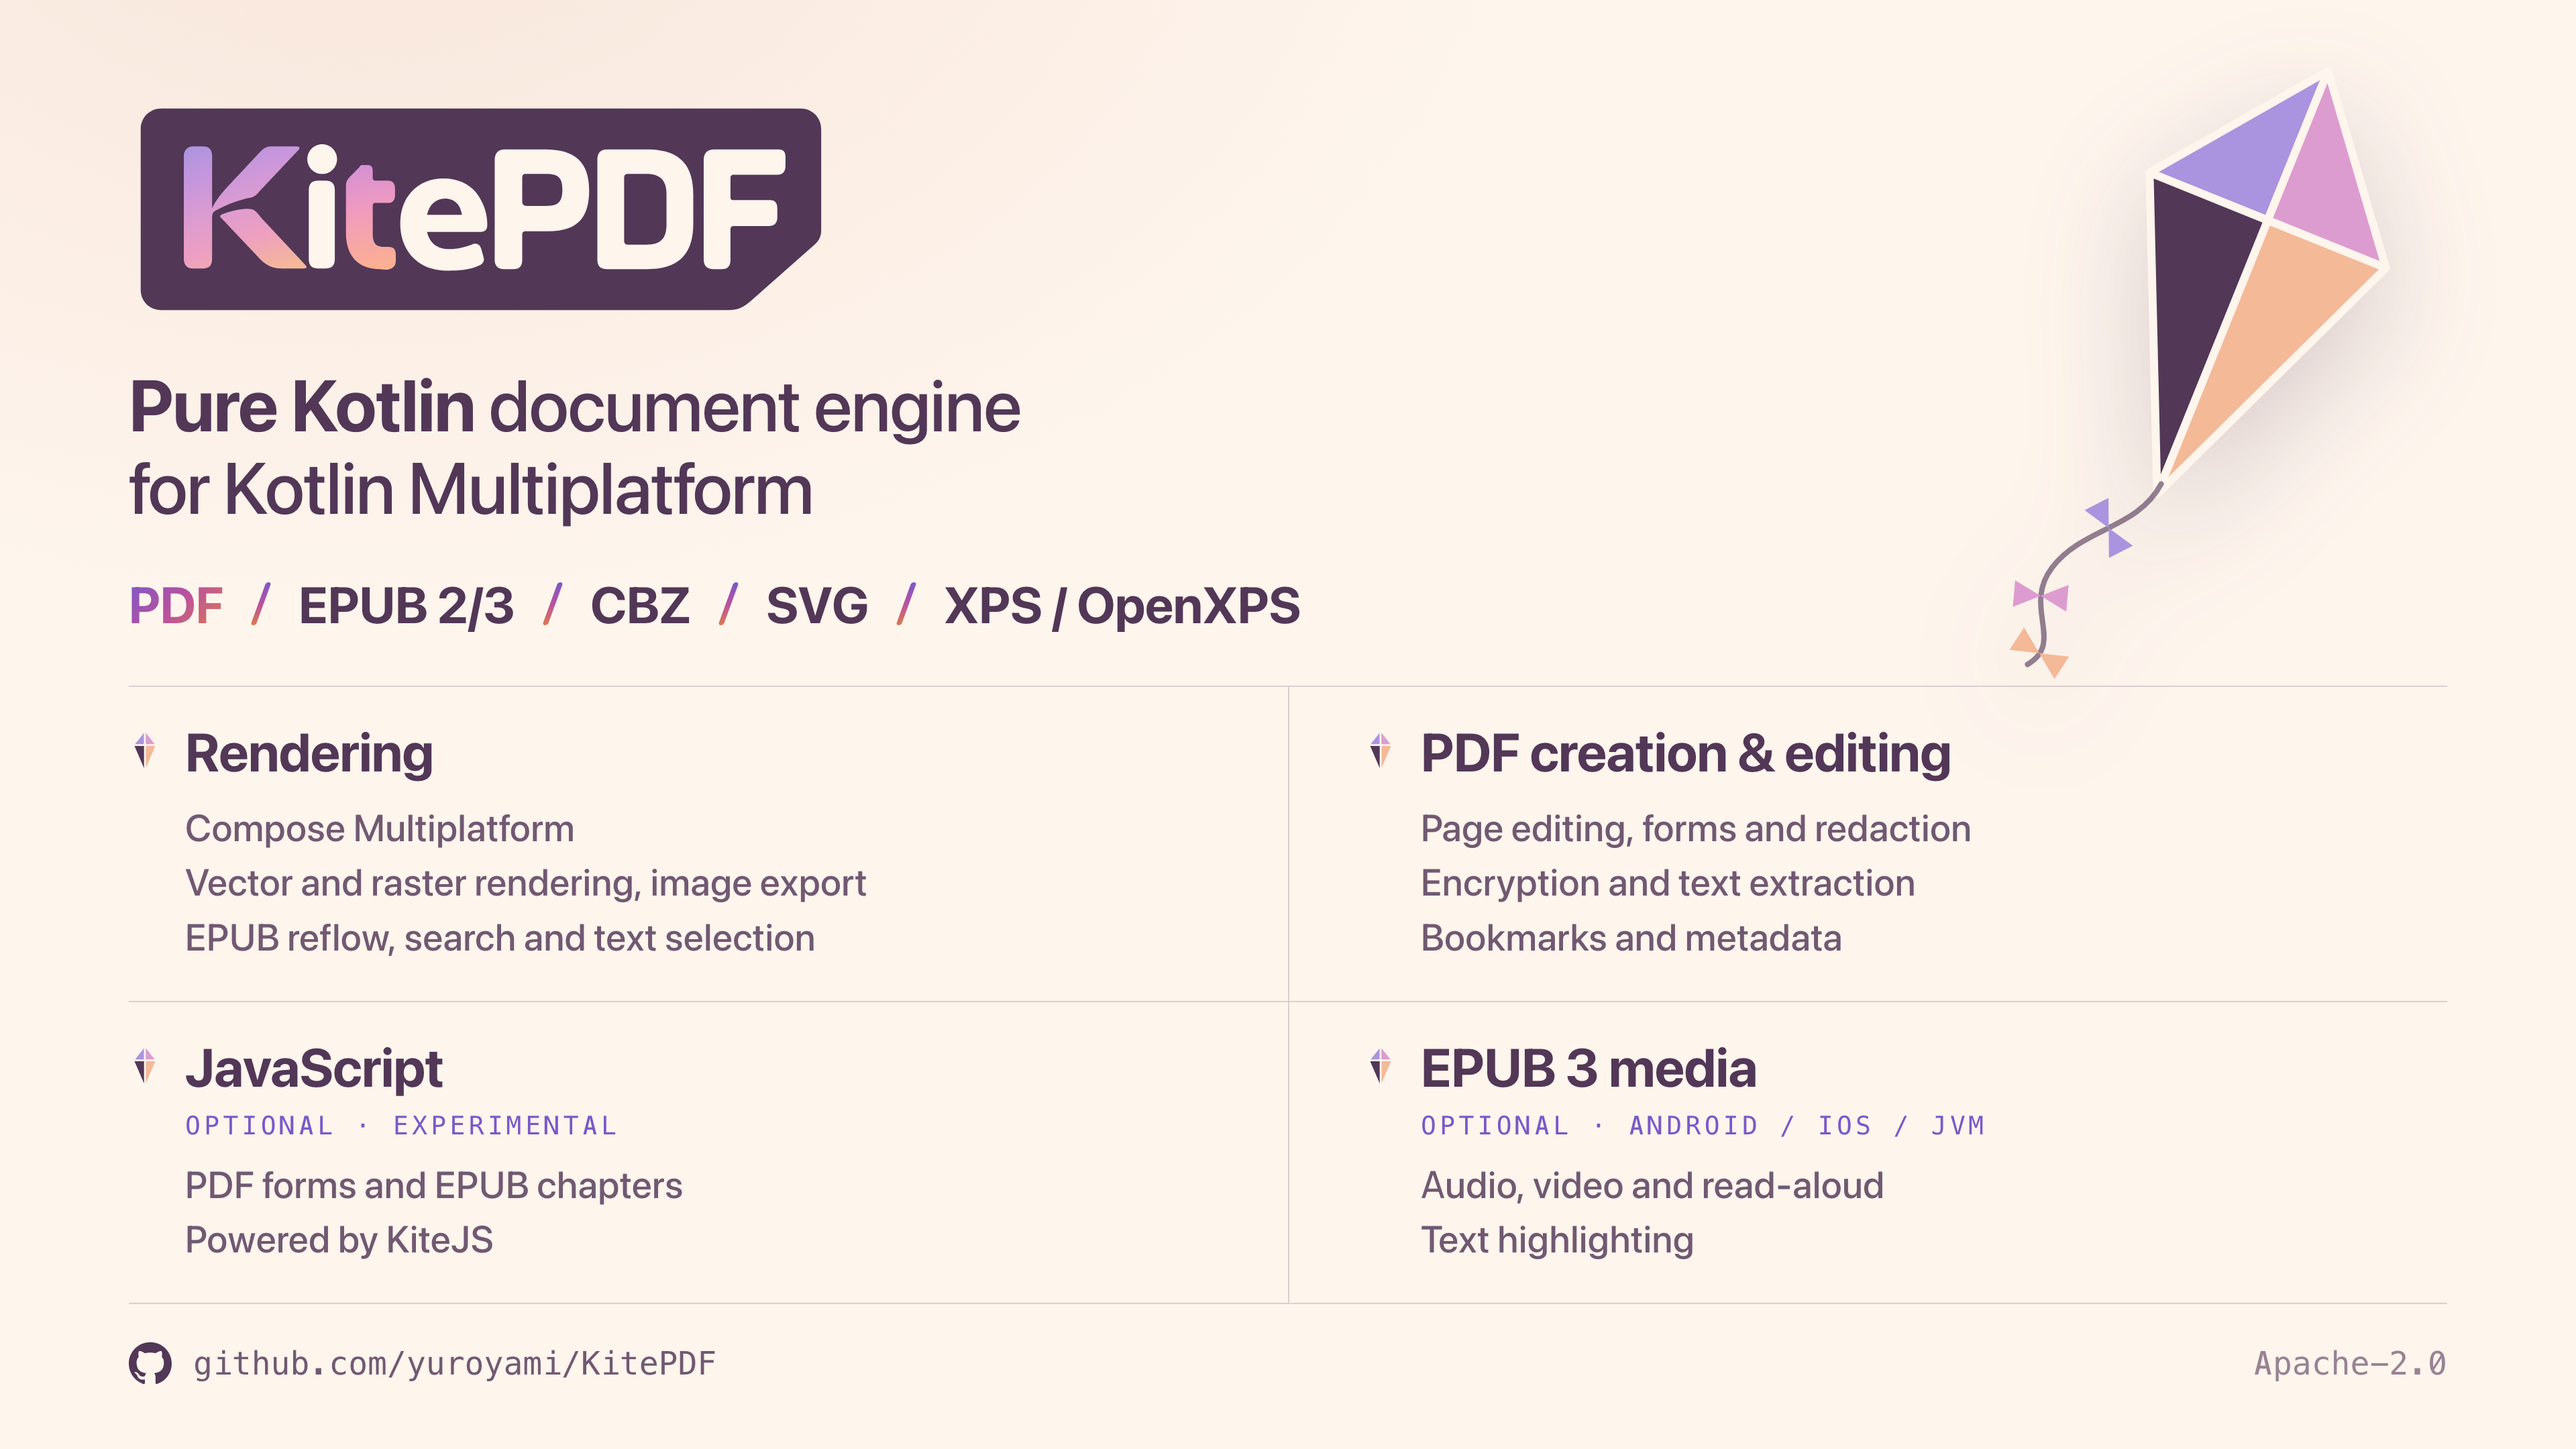
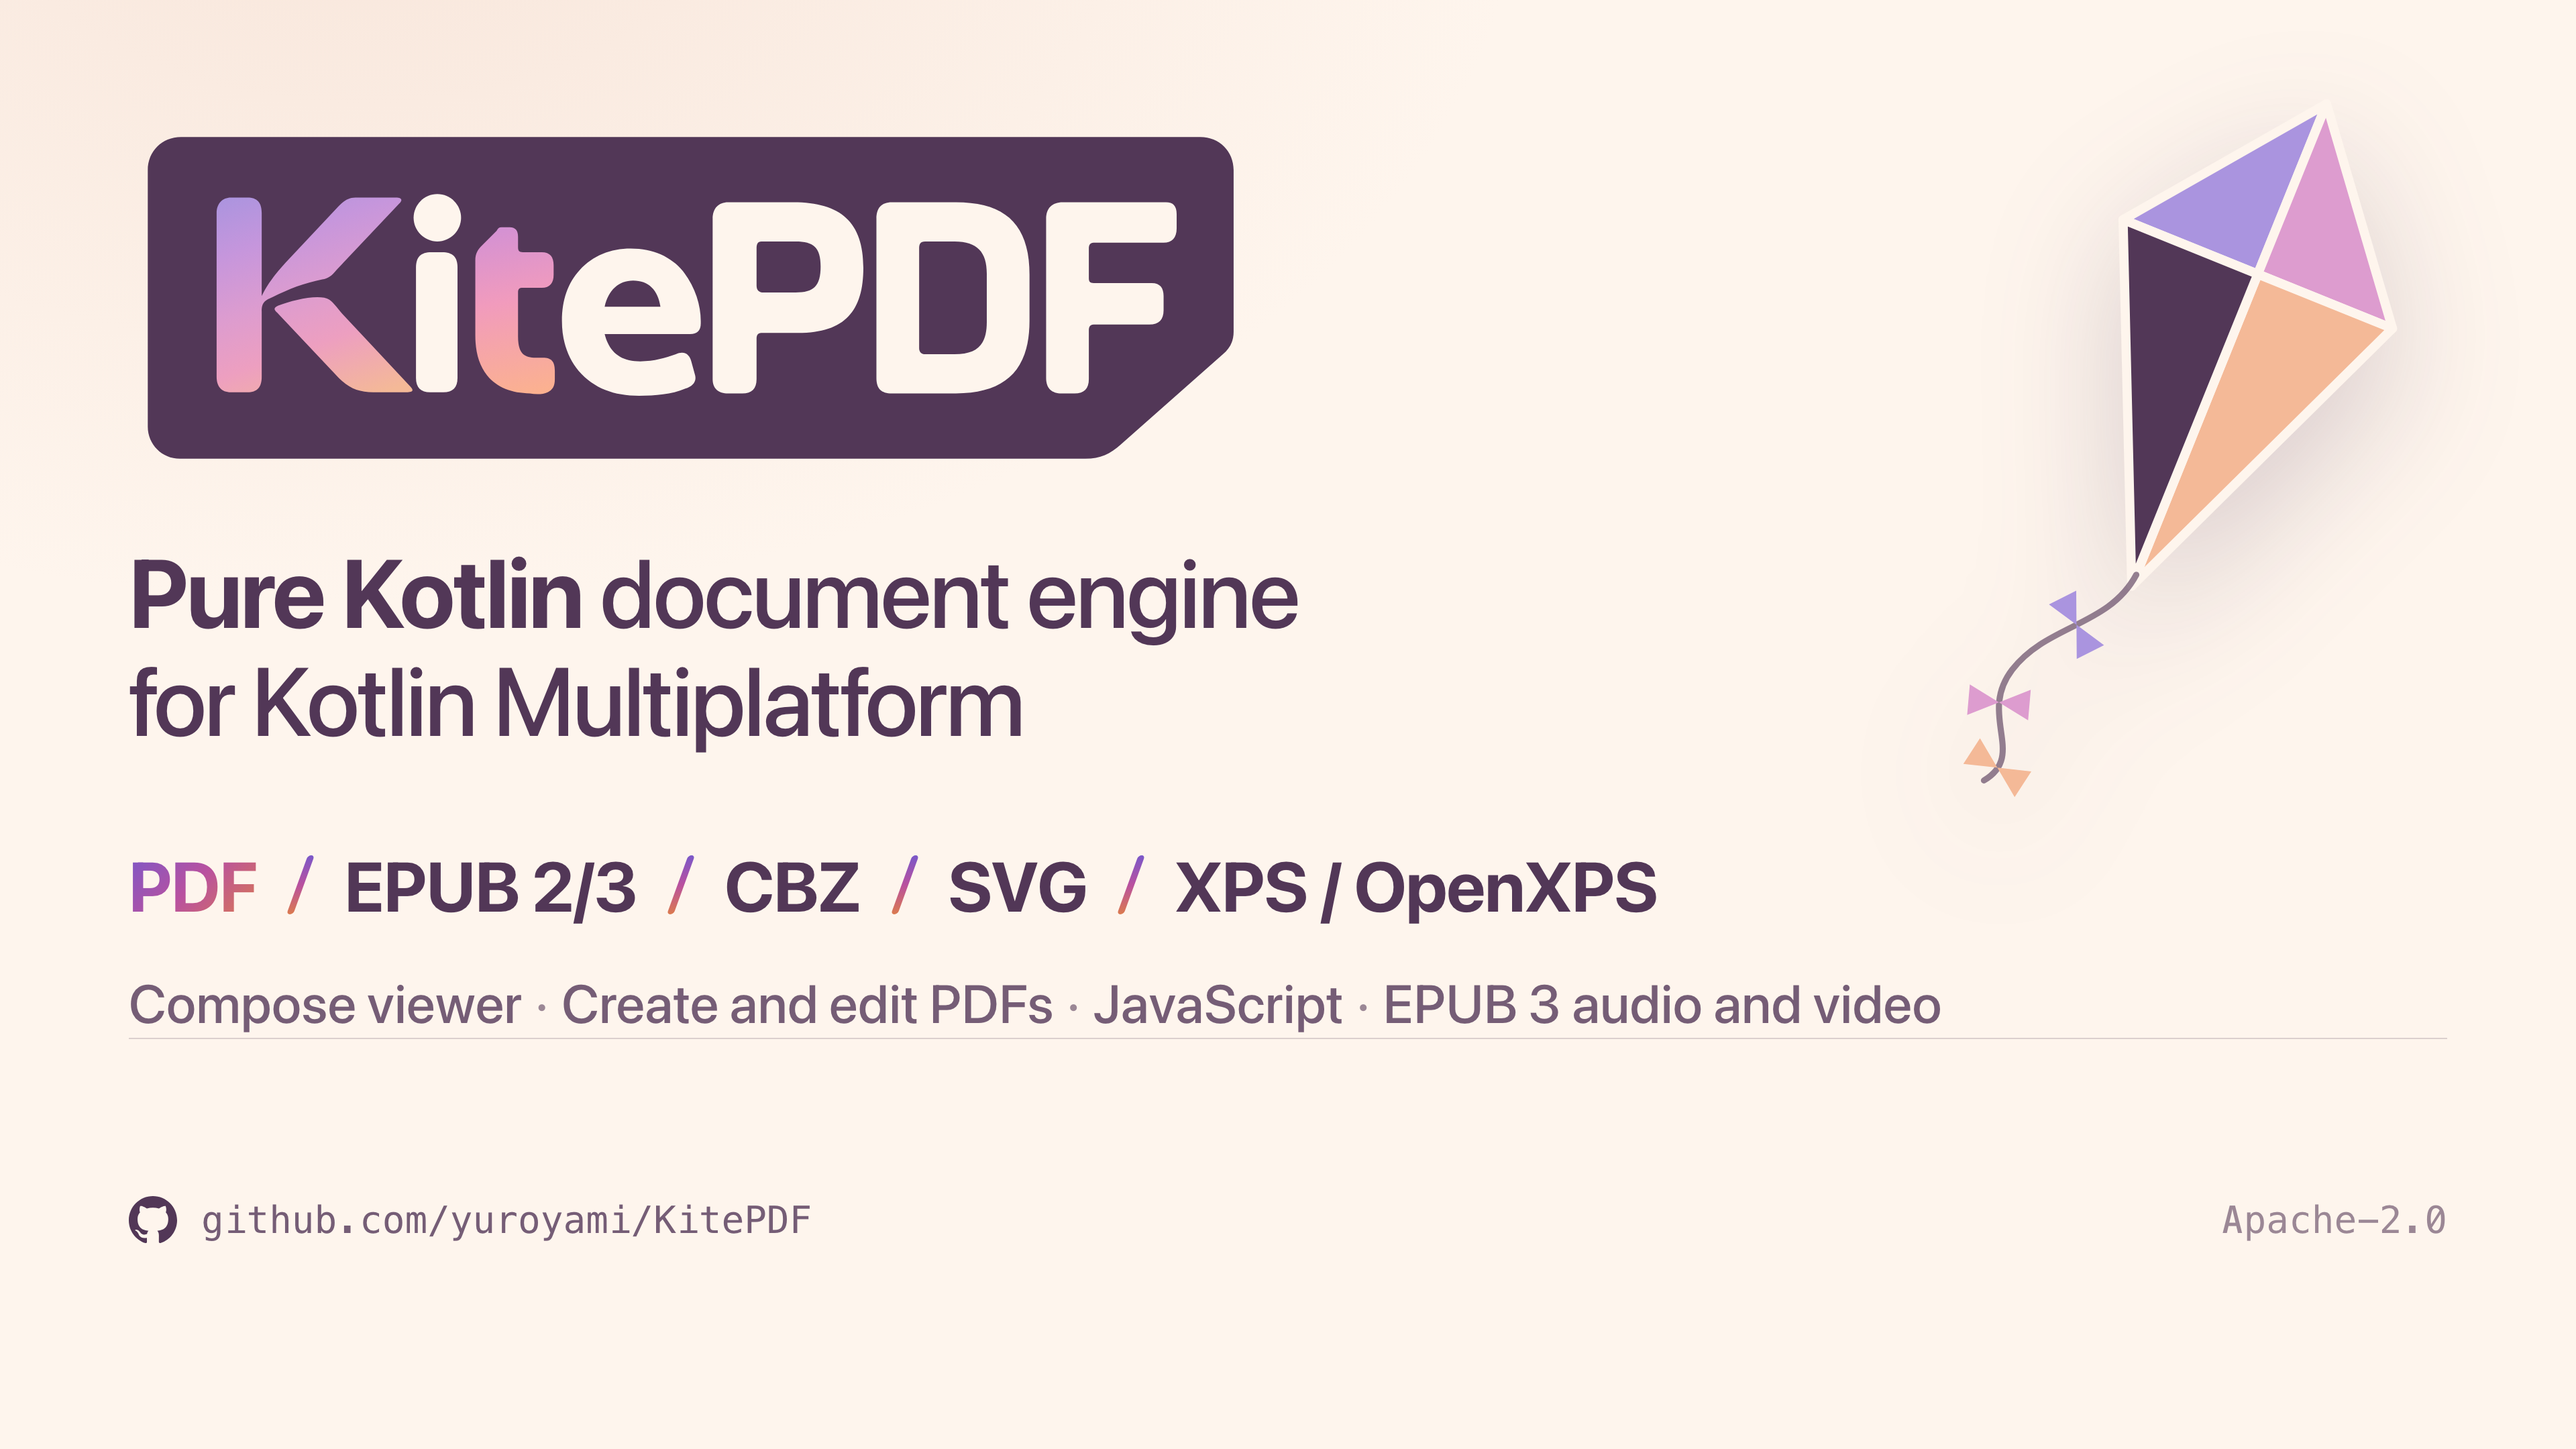
docs: cut the feature graphic down so it reads at readme width
The first version was a dense slide. The graphic now carries the plaque,
one tagline, the five formats, one line of features and the kite, with
nothing under 40px on the 1920px canvas, so it stays legible when the
readme shows it at a few hundred pixels wide.

diff --git a/art/feature-graphic/index.html b/art/feature-graphic/index.html
@@ -8,6 +8,7 @@
   Open this file in a browser, or run render.sh to get a PNG at 3840 x 2160.
   Add ?theme=light to the URL for the ivory variant. The default is the dark variant.
   The logo comes from ../kitepdf-logo.svg, so the lettering is always the real one.
+  Nothing on the page is smaller than 40px, so it still reads at README and phone width.
 -->
 <style>
   @font-face {
@@ -35,30 +36,28 @@
     --bg: #1A1420;
     --bg-lift: #2B1F33;
     --ink: var(--ivory);
-    --ink-2: rgba(254, 245, 237, 0.76);
-    --ink-3: rgba(254, 245, 237, 0.52);
+    --ink-2: rgba(254, 245, 237, 0.74);
+    --ink-3: rgba(254, 245, 237, 0.50);
     --rule: rgba(254, 245, 237, 0.16);
     --grad: linear-gradient(135deg, var(--lavender) 0%, var(--pink) 50%, var(--peach) 100%);
     --grad-v: linear-gradient(180deg, var(--lavender) 0%, var(--pink) 50%, var(--peach) 100%);
-    --tag: var(--lavender);
     --kite-4: var(--ivory);
     --kite-tail: rgba(254, 245, 237, 0.62);
-    --kite-shadow: drop-shadow(0 28px 44px rgba(0, 0, 0, 0.55));
+    --kite-shadow: drop-shadow(0 32px 50px rgba(0, 0, 0, 0.55));
   }
   :root[data-theme="light"] {
     --bg: #FEF5ED;
     --bg-lift: #F8E6DB;
     --ink: var(--plum);
-    --ink-2: rgba(82, 55, 87, 0.82);
-    --ink-3: rgba(82, 55, 87, 0.60);
+    --ink-2: rgba(82, 55, 87, 0.80);
+    --ink-3: rgba(82, 55, 87, 0.58);
     --rule: rgba(82, 55, 87, 0.20);
     /* Deeper versions of the same three hues, so text keeps its contrast on ivory. */
     --grad: linear-gradient(135deg, #7A58C9 0%, #B9519F 50%, #DB7A4E 100%);
     --grad-v: linear-gradient(180deg, #7A58C9 0%, #B9519F 50%, #DB7A4E 100%);
-    --tag: #7A58C9;
     --kite-4: var(--plum);
     --kite-tail: rgba(82, 55, 87, 0.62);
-    --kite-shadow: drop-shadow(0 28px 44px rgba(82, 55, 87, 0.22));
+    --kite-shadow: drop-shadow(0 32px 50px rgba(82, 55, 87, 0.22));
   }
 
   * { box-sizing: border-box; }
@@ -69,7 +68,6 @@
     background: var(--bg);
     color: var(--ink);
     font-family: "Manrope", system-ui, sans-serif;
-    font-feature-settings: "ss01", "cv05";
     -webkit-font-smoothing: antialiased;
     text-rendering: geometricPrecision;
   }
@@ -79,44 +77,44 @@
     width: 1920px;
     height: 1080px;
     overflow: hidden;
-    padding: 72px 96px 64px;
+    padding: 88px 96px 64px;
     display: grid;
-    grid-template-rows: auto auto 1fr auto;
+    grid-template-rows: auto auto auto auto 1fr auto;
     background:
       radial-gradient(1400px 900px at 14% -10%, var(--bg-lift) 0%, transparent 62%),
       var(--bg);
   }
 
-  /* Header: logo and tagline. The kite sits to the right of these. */
-  .header { display: flex; flex-direction: column; align-items: flex-start; gap: 30px; }
-  .logo { display: block; height: 168px; width: auto; }
+  /* The plaque is the hero. */
+  .logo { display: block; height: 268px; width: auto; justify-self: start; }
+
   .tagline {
-    margin: 0;
-    font-size: 54px;
-    line-height: 1.14;
+    margin: 44px 0 0;
+    max-width: 1140px;
+    font-size: 72px;
+    line-height: 1.12;
     font-weight: 500;
-    letter-spacing: -0.016em;
-    color: var(--ink);
+    letter-spacing: -0.02em;
   }
   .tagline strong { font-weight: 700; }
 
-  /* Format line. */
+  /* The five formats, one line. */
   .formats {
     display: flex;
     align-items: center;
-    gap: 26px;
-    margin-top: 38px;
-    font-size: 38px;
+    gap: 30px;
+    margin-top: 72px;
+    font-size: 52px;
     line-height: 1;
     font-weight: 700;
-    letter-spacing: -0.012em;
+    letter-spacing: -0.015em;
     white-space: nowrap;
   }
   .formats .sep {
     flex: none;
-    width: 4px;
-    height: 32px;
-    border-radius: 2px;
+    width: 5px;
+    height: 44px;
+    border-radius: 3px;
     background: var(--grad-v);
     transform: skewX(-20deg);
   }
@@ -127,73 +125,39 @@
     color: transparent;
   }
 
-  /* Feature grid: two by two, hairlines between. */
+  /* One line of what it does beyond reading. */
   .features {
-    margin-top: 42px;
-    display: grid;
-    grid-template-columns: 1fr 1fr;
-    border-top: 1px solid var(--rule);
-    border-bottom: 1px solid var(--rule);
-    align-self: start;
-  }
-  .feature { padding: 26px 48px 28px 0; }
-  .feature:nth-child(2n) { padding-left: 56px; border-left: 1px solid var(--rule); }
-  .feature:nth-child(n + 3) { border-top: 1px solid var(--rule); }
-  .feature h2 {
-    display: flex;
-    align-items: center;
-    gap: 18px;
-    margin: 0;
+    margin: 36px 0 0;
     font-size: 40px;
-    line-height: 1.1;
-    font-weight: 700;
-    letter-spacing: -0.016em;
-    color: var(--ink);
-  }
-  .feature .mark { flex: none; width: 24px; height: 34px; stroke: var(--bg); stroke-width: 14; stroke-linejoin: round; }
-  .feature .tag {
-    margin: 12px 0 0 42px;
-    font-family: "JetBrains Mono", ui-monospace, monospace;
-    font-size: 19px;
-    line-height: 1;
-    font-weight: 500;
-    letter-spacing: 0.14em;
-    text-transform: uppercase;
-    color: var(--tag);
-  }
-  .feature ul {
-    list-style: none;
-    margin: 14px 0 0 42px;
-    padding: 0;
-    font-size: 28px;
-    line-height: 1.45;
+    line-height: 1.3;
     font-weight: 500;
     color: var(--ink-2);
   }
+  .features .dot { color: var(--ink-3); padding: 0 10px; }
 
-  /* Footer. */
   .footer {
     display: flex;
     align-items: center;
     justify-content: space-between;
     padding-top: 28px;
+    border-top: 1px solid var(--rule);
     font-family: "JetBrains Mono", ui-monospace, monospace;
-    font-size: 24px;
+    font-size: 28px;
     line-height: 1;
     font-weight: 500;
     color: var(--ink-2);
   }
-  .footer .repo { display: flex; align-items: center; gap: 16px; }
-  .footer .repo svg { width: 32px; height: 32px; fill: var(--ink); }
+  .footer .repo { display: flex; align-items: center; gap: 18px; }
+  .footer .repo svg { width: 36px; height: 36px; fill: var(--ink); }
   .footer .license { color: var(--ink-3); }
 
-  /* The kite. Top right, beside the header and format line. */
+  /* The kite. Top right, beside the plaque and the tagline. */
   .kite {
     position: absolute;
-    top: 20px;
-    right: 96px;
-    width: 540px;
-    height: 492px;
+    top: 36px;
+    right: 80px;
+    width: 600px;
+    height: 560px;
     stroke: var(--bg);
     stroke-width: 6;
     stroke-linejoin: round;
@@ -206,7 +170,7 @@
 <body>
 <svg width="0" height="0" style="position:absolute" aria-hidden="true">
   <defs>
-    <!-- One kite, four paper quadrants. Reused for the hero and the small group marks. -->
+    <!-- One kite, four paper quadrants. -->
     <symbol id="kite-shape" viewBox="-110 -165 220 370" overflow="visible">
       <polygon points="0,-150 -95,-30 0,-30" fill="#AA94DF"/>
       <polygon points="0,-150 95,-30 0,-30" fill="#DD9CCF"/>
@@ -220,11 +184,10 @@
   </defs>
 </svg>
 
-<main class="canvas" data-theme-root>
-  <header class="header">
-    <img class="logo" src="../kitepdf-logo.svg" alt="KitePDF">
-    <p class="tagline"><strong>Pure Kotlin</strong> document engine<br>for Kotlin Multiplatform</p>
-  </header>
+<main class="canvas">
+  <img class="logo" src="../kitepdf-logo.svg" alt="KitePDF">
+
+  <p class="tagline"><strong>Pure Kotlin</strong> document engine<br>for Kotlin Multiplatform</p>
 
   <div class="formats" aria-label="Supported formats">
     <span class="hero">PDF</span><span class="sep"></span>
@@ -234,40 +197,7 @@
     <span>XPS / OpenXPS</span>
   </div>
 
-  <section class="features">
-    <article class="feature">
-      <h2><svg class="mark"><use href="#kite-shape"/></svg>Rendering</h2>
-      <ul>
-        <li>Compose Multiplatform</li>
-        <li>Vector and raster rendering, image export</li>
-        <li>EPUB reflow, search and text selection</li>
-      </ul>
-    </article>
-    <article class="feature">
-      <h2><svg class="mark"><use href="#kite-shape"/></svg>PDF creation &amp; editing</h2>
-      <ul>
-        <li>Page editing, forms and redaction</li>
-        <li>Encryption and text extraction</li>
-        <li>Bookmarks and metadata</li>
-      </ul>
-    </article>
-    <article class="feature">
-      <h2><svg class="mark"><use href="#kite-shape"/></svg>JavaScript</h2>
-      <p class="tag">Optional · Experimental</p>
-      <ul>
-        <li>PDF forms and EPUB chapters</li>
-        <li>Powered by KiteJS</li>
-      </ul>
-    </article>
-    <article class="feature">
-      <h2><svg class="mark"><use href="#kite-shape"/></svg>EPUB 3 media</h2>
-      <p class="tag">Optional · Android / iOS / JVM</p>
-      <ul>
-        <li>Audio, video and read-aloud</li>
-        <li>Text highlighting</li>
-      </ul>
-    </article>
-  </section>
+  <p class="features">Compose viewer<span class="dot">·</span>Create and edit PDFs<span class="dot">·</span>JavaScript<span class="dot">·</span>EPUB 3 audio and video</p>
 
   <footer class="footer">
     <span class="repo">
@@ -277,8 +207,8 @@
     <span class="license">Apache-2.0</span>
   </footer>
 
-  <svg class="kite" viewBox="0 0 540 492" aria-hidden="true">
-    <g transform="translate(395 172) rotate(22)">
+  <svg class="kite" viewBox="0 0 600 560" aria-hidden="true">
+    <g transform="translate(430 200) rotate(22) scale(1.14)">
       <use href="#kite-shape" x="-110" y="-165" width="220" height="370"/>
       <path class="tail" d="M0,182 C -4,220 -42,234 -52,270 C -62,306 -22,318 -42,344"/>
       <use class="bow" href="#kite-bow" x="-20" y="-10" width="40" height="20" fill="#AA94DF" transform="translate(-24 227) rotate(41)"/>
